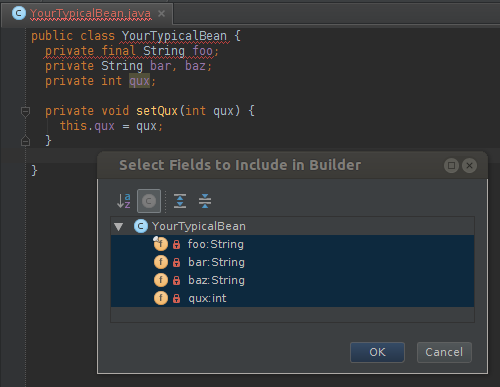
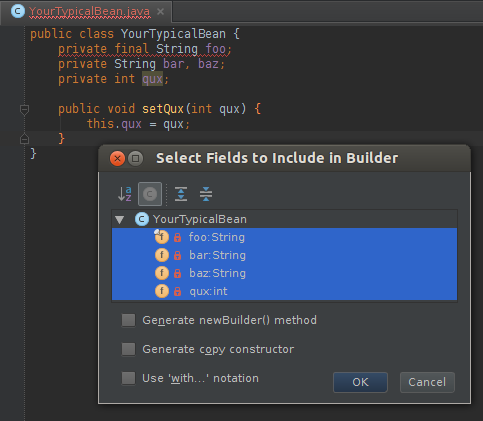
Some minor changes, updated screenshot.

diff --git a/src/main/java/org/jetbrains/plugins/innerbuilder/GenerateInnerBuilderHandler.java b/src/main/java/org/jetbrains/plugins/innerbuilder/GenerateInnerBuilderHandler.java
@@ -36,13 +36,13 @@ public class GenerateInnerBuilderHandler implements LanguageCodeInsightActionHan
     private static final String JAVA_DOT_LANG = "java.lang.";
 
     @NonNls
-    private static final String PROP_NEWBUILDERMETHOD = "GenerateInnerBuilder.";
-
-    @NonNls
-    private static final String PROP_USEWITHNOTATION = "GenerateInnerBuilder.useWithNotation";
+    private static final String PROP_NEWBUILDERMETHOD = "GenerateInnerBuilder.newBuilderMethod";
 
     @NonNls
     private static final String PROP_COPYCONSTRUCTOR = "GenerateInnerBuilder.copyConstructor";
+
+    @NonNls
+    private static final String PROP_WITHNOTATION = "GenerateInnerBuilder.withNotation";
 
     @Override
     public boolean isValidFor(Editor editor, PsiFile file) {
@@ -131,7 +131,7 @@ public class GenerateInnerBuilderHandler implements LanguageCodeInsightActionHan
 
                 boolean newBuilderMethod = propertiesComponent.getBoolean(PROP_NEWBUILDERMETHOD, false);
                 boolean copyConstructor = propertiesComponent.getBoolean(PROP_COPYCONSTRUCTOR, false);
-                boolean withNotation = propertiesComponent.getBoolean(PROP_USEWITHNOTATION, false);
+                boolean withNotation = propertiesComponent.getBoolean(PROP_WITHNOTATION, false);
 
                 // builder constructor, accepting the final fields
                 StringBuilder builderConstructorText = new StringBuilder();
@@ -304,10 +304,10 @@ public class GenerateInnerBuilderHandler implements LanguageCodeInsightActionHan
             final JCheckBox withNotationCheckbox = new NonFocusableCheckBox("Use 'with...' notation");
             withNotationCheckbox.setMnemonic('w');
             withNotationCheckbox.setToolTipText("Generate builder methods that start with 'with', eg. builder.withName(String name)");
-            withNotationCheckbox.setSelected(propertiesComponent.isTrueValue(PROP_USEWITHNOTATION));
+            withNotationCheckbox.setSelected(propertiesComponent.isTrueValue(PROP_WITHNOTATION));
             withNotationCheckbox.addItemListener(new ItemListener() {
                 public void itemStateChanged(ItemEvent e) {
-                    propertiesComponent.setValue(PROP_USEWITHNOTATION, Boolean.toString(withNotationCheckbox.isSelected()));
+                    propertiesComponent.setValue(PROP_WITHNOTATION, Boolean.toString(withNotationCheckbox.isSelected()));
                 }
             });
 

diff --git a/README.md b/README.md
@@ -21,7 +21,7 @@ public class YourTypicalBean {
     setQux(builder.qux);
   }
 
-  private void setQux(int qux) {
+  public void setQux(int qux) {
     this.qux = qux;
   }
 
@@ -33,13 +33,6 @@ public class YourTypicalBean {
 
     public Builder(String foo) {
       this.foo = foo;
-    }
-
-    public Builder(YourTypicalBean copy) {
-      foo = copy.foo;
-      bar = copy.bar;
-      baz = copy.baz;
-      qux = copy.qux;
     }
 
     public Builder bar(String bar) {
